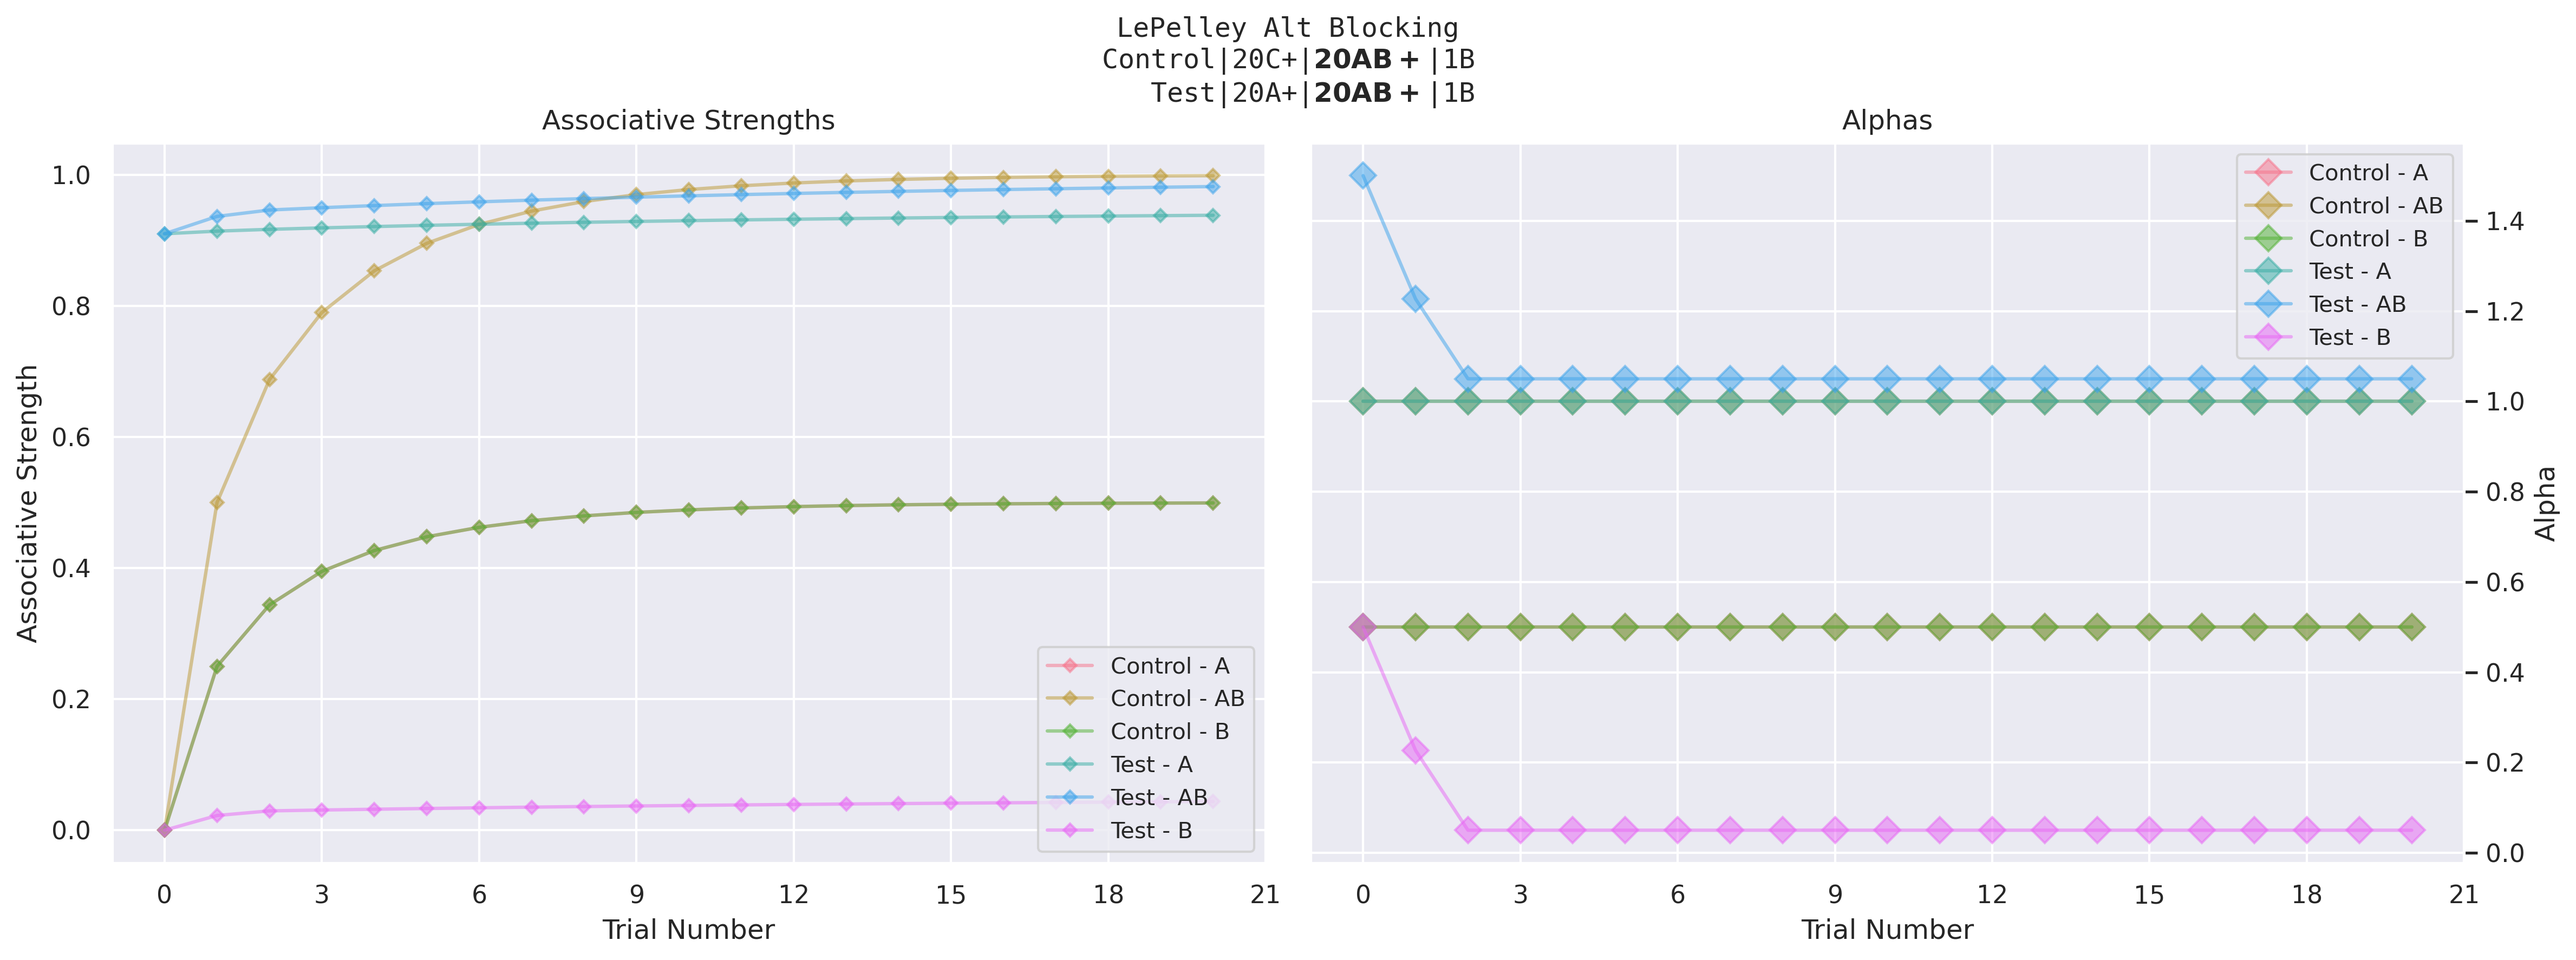
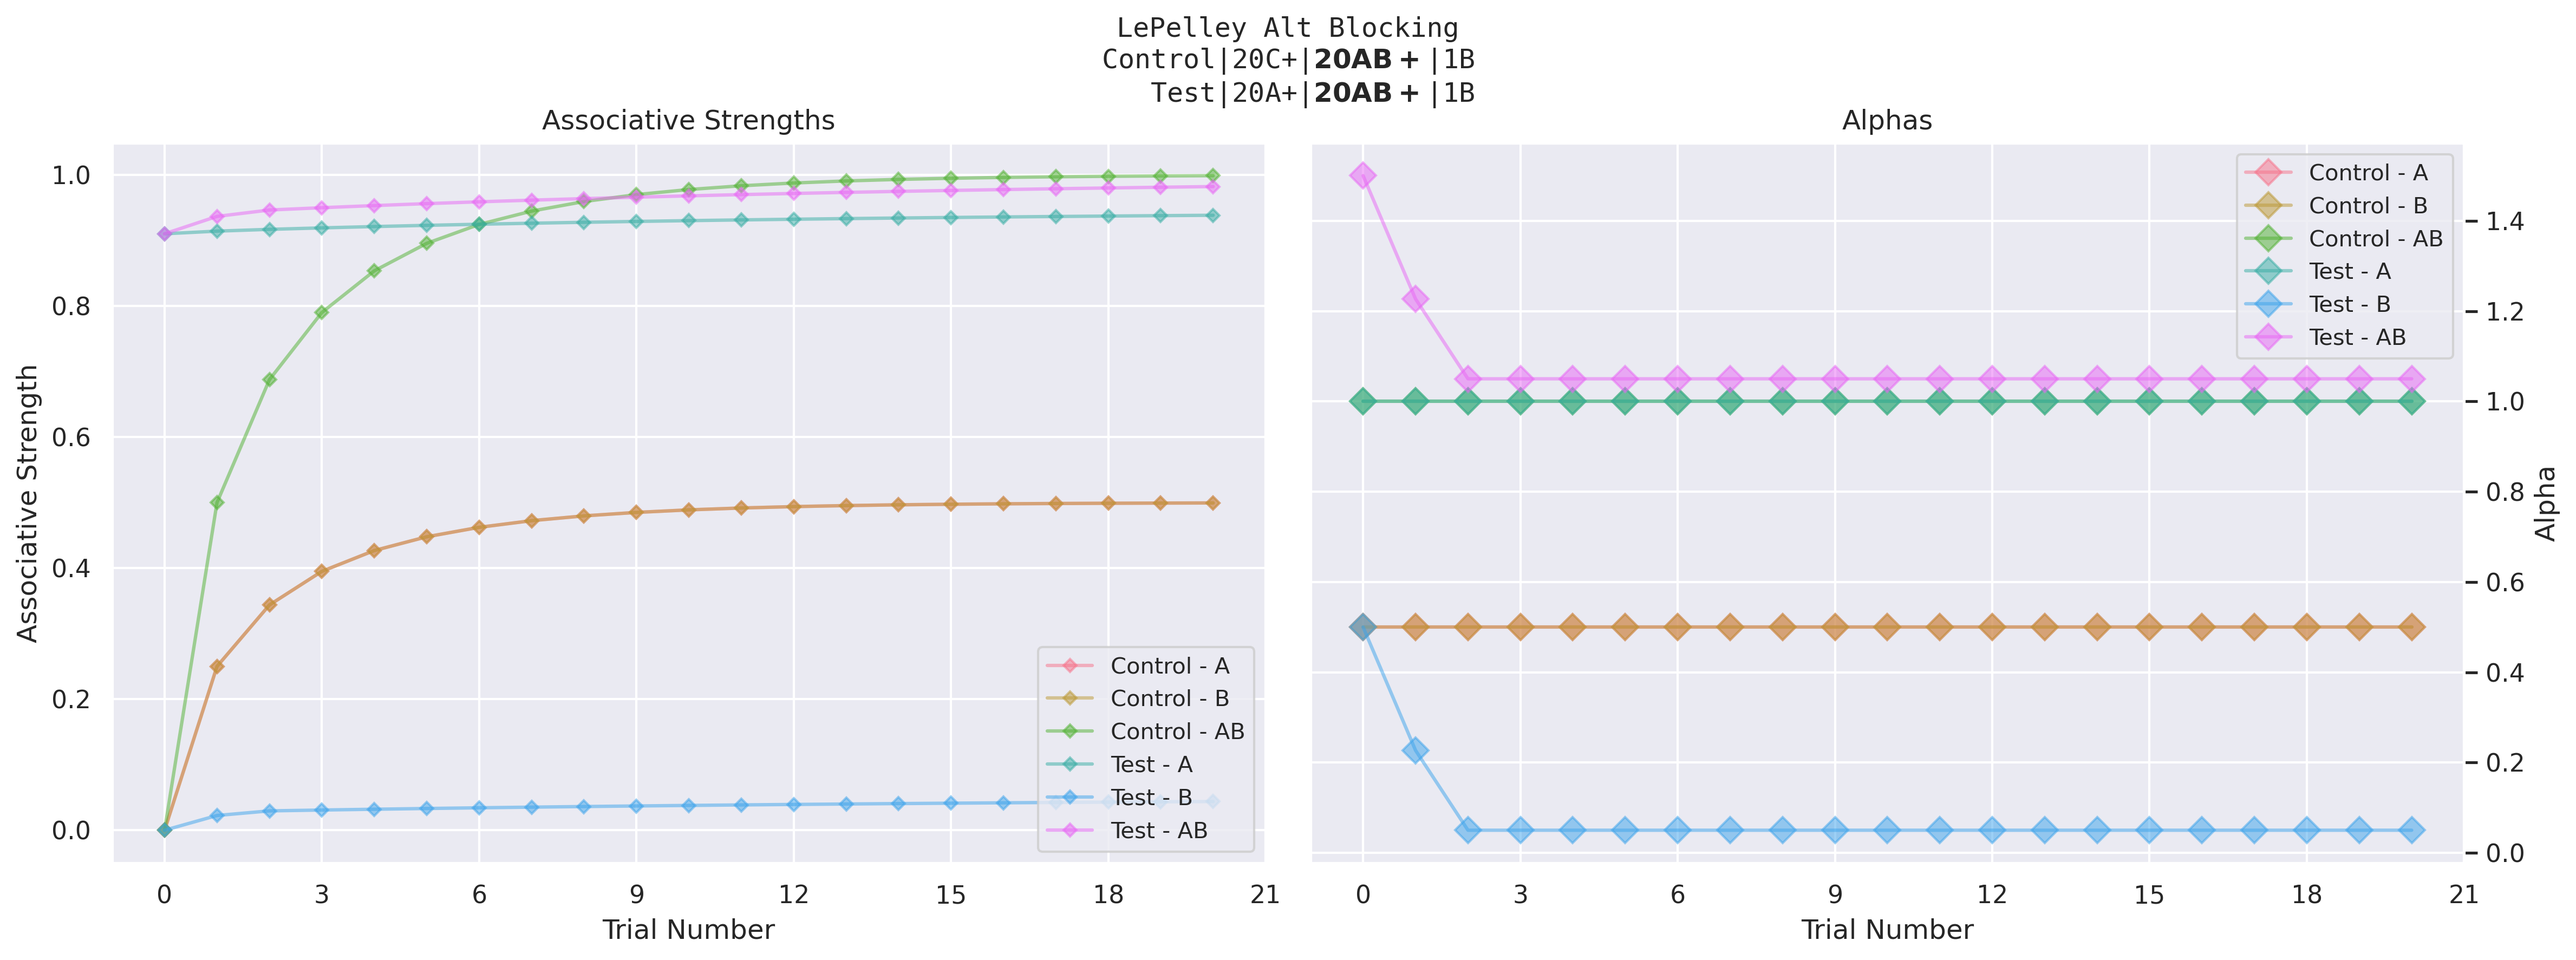
Sorting stimuli by length and lexicographically.

diff --git a/RW_strengths.py b/RW_strengths.py
@@ -134,6 +134,10 @@ class Strengths:
 
         return h
 
+    def ordered_cs(self) -> list[str]:
+        cs = self.combined_cs()
+        return sorted(cs, key = lambda x: (len(x), x))
+
     # Get the individual values of either a single key (len(key) == 1), or
     # the combined values of a combination of keys (sum of values).
     def __getitem__(self, key : str) -> Individual:

diff --git a/RW_simulator.py b/RW_simulator.py
@@ -178,7 +178,7 @@ def main():
                 groups_strengths.append(defaultdict(lambda: History()))
 
             for strengths in strength_hist:
-                for cs in strengths.combined_cs():
+                for cs in strengths.ordered_cs():
                     if cs not in (args.plot_stimuli or [cs]):
                         continue
 
